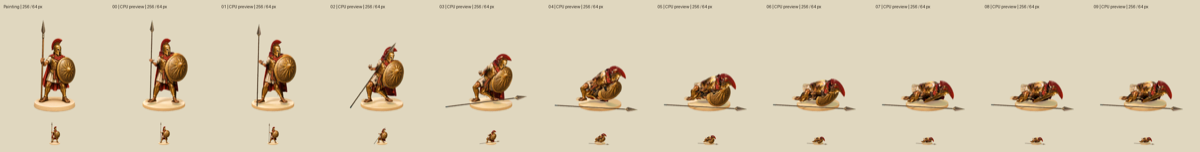
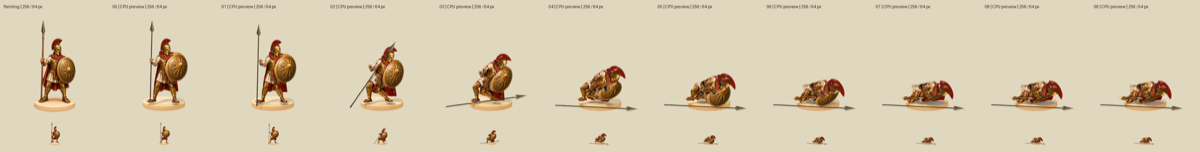
3D spearman interim review images

diff --git a/tools/art/anim3d/review/spearman-log.md b/tools/art/anim3d/review/spearman-log.md
@@ -87,3 +87,5 @@
 - Round 7 start: opened c-textured-lit, rest comparison, all five strips, details and newly extracted round6.mp4 contact frames before edits. All supplied renders are explicitly CPU previews; requested gpu-logs-spearman-r6.log is absent. No GPU success/failure inferred. Preserved received evidence under spearman-round6-preserved/.
 - Honest round6 critique: at 256px the shield paint is cleaner but helmet face/crest differ, spear fist is narrow and horizontal, sleeve has a missing pale crescent/abrupt join, and base is smooth with broad displaced shadows and a thin rim. Rest is readily distinguishable. At 64px the bronze/red/cream identity is the same spearman, but stance, shield outline and base remain different. All five actions read; attack shoulder and pale death surfaces are still visible defects. NOT PASS.
 - Loaded all six Blender skills (modeling, materials, cameras, lighting, animation, rendering), full playbook, shared/unit feedback, prior log, project art instructions and sources. Round7 uses original rig and depth-preserving fitting, frozen painting projection, existing generated backside fills, actual beveled straps/folds and one automatic grade.
+- Round7 first previews: taller real knuckle stack and inverse-skinned whole-arm fit restore the missing sleeve/upper-arm crescent; widened near helmet cheek, lower camera and shallower round disc top. Source projection remains frozen, visibility feather narrowed. Initial metrics improved arm fit but showed the base still needed a taller edge; these previews are intermediate.
+- Added family-local camera-only generated-fill/skin pigment with live AO and 35 percent physical response for unseen surfaces. Preserves original physical BSDF for non-camera rays and retains source texture hashes; no new downloads or generated assets.
